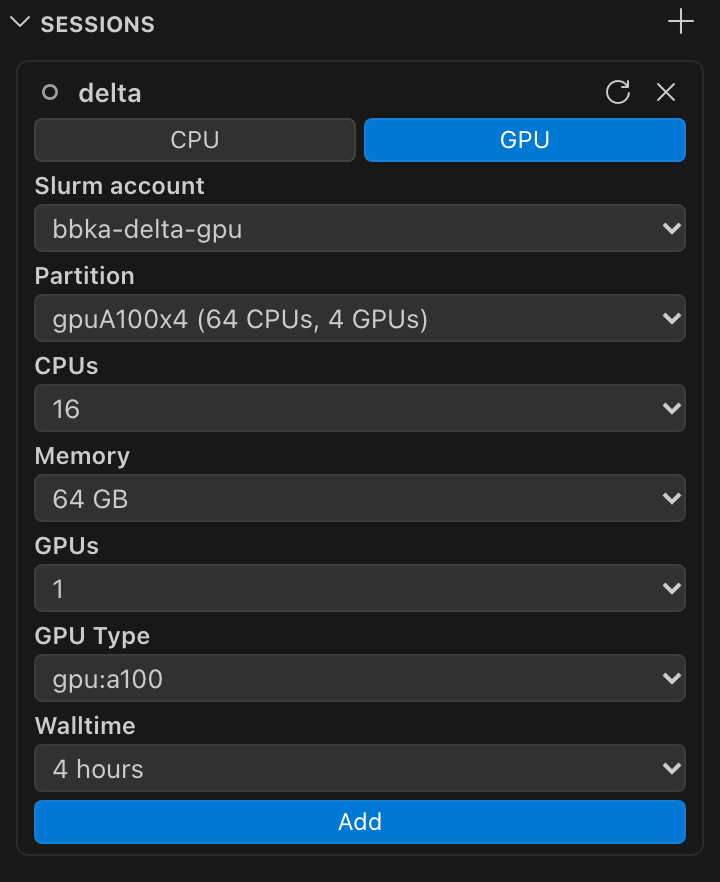
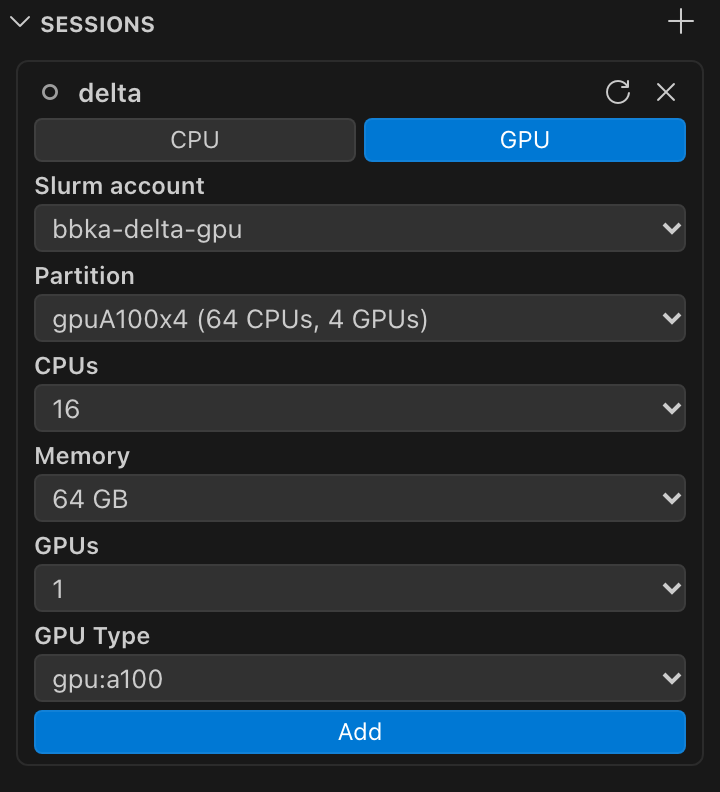
Ask for the walltime on Start

diff --git a/src/sessionProvider.ts b/src/sessionProvider.ts
@@ -27,6 +27,7 @@ export class SessionProvider extends WebviewProvider<SessionsMessage> implements
     private preparing = false; // one prepare at a time, so one draft follows another
     private readonly shared: vscode.Disposable[] = [];
     private readonly opening = new Map<string, ReturnType<typeof setTimeout>>(); // each open's own fallback timer
+    private readonly starting = new Set<string>();
     private readonly monitor: SessionMonitor;
     private readonly slurm: SlurmBackend;
     private readonly ec2: Ec2Backend;
@@ -95,7 +96,11 @@ export class SessionProvider extends WebviewProvider<SessionsMessage> implements
         dismissAlert: this.dismiss(() => { this.alert = null; }),
         addSession: m => this.createSession(m),
         refreshSlurmDiscovery: ({ alias }) => this.fetchSlurmDiscovery(alias, true),
-        prepareLaunchSession: ({ sessionId }) => void this.prepareLaunchSession(sessionId),
+        prepareLaunchSession: ({ sessionId }) => {
+            this.starting.add(sessionId);
+            void this.pushState();
+            void this.prepareLaunchSession(sessionId).finally(() => { this.starting.delete(sessionId); void this.pushState(); });
+        },
         launchSession: () => this.launchDraft(),
         stopSessionExecution: ({ sessionId }) => void this.stopSessionExecution(sessionId),
         stopRemoteSession: () => void vscode.commands.executeCommand('csbridge.stopRemoteSession'), // posted only by a remote window's card
@@ -212,7 +217,7 @@ export class SessionProvider extends WebviewProvider<SessionsMessage> implements
                     .map((s) => {
                         const live = windowState(s);
                         if (live.windowAlive) { clearTimeout(this.opening.get(s.id)); this.opening.delete(s.id); }
-                        return { ...s, status: statusOf(s), ...live, opening: this.opening.has(s.id), samples: readRecentSamples(s.id) };
+                        return { ...s, status: statusOf(s), ...live, opening: this.opening.has(s.id), starting: this.starting.has(s.id), samples: readRecentSamples(s.id) };
                     })
                     .sort((a, b) => b.id.localeCompare(a.id)), // newest first
                 draftAlias: this.draftAlias,
@@ -320,7 +325,8 @@ export class SessionProvider extends WebviewProvider<SessionsMessage> implements
 
     private async prepareLaunchSession(sessionId: string) {
         const session = this.requireSession(sessionId, 'prepare launch');
-        if (!session || this.preparing || live.busy.has(session.id) || live.connecting.has(session.id)) { return; } // one prepare at a time; a Start during a connect is a no-op
+        const wallMinutes = session && !isEc2(session) ? await pickWalltime(session.resources.wallMinutes) : 0;
+        if (!session || wallMinutes === undefined || this.preparing || live.busy.has(session.id) || live.connecting.has(session.id)) { return; } // one prepare at a time; a Start during a connect is a no-op
         this.preparing = true;
         live.busy.add(session.id);
         try {
@@ -335,7 +341,7 @@ export class SessionProvider extends WebviewProvider<SessionsMessage> implements
         live.busy.add(session.id);
         try {
             if (session.connectionInfo) { await this.monitor.endSession(session); } // the previous run's teardown, before a transport switch hides it
-            patch(session, { transport: configuredTransport() });
+            patch(session, { transport: configuredTransport(), resources: { ...session.resources, wallMinutes } });
             const draft = await prepareLaunch(session, this.transports.transportFor(session));
             this.draft = { sessionId, ...draft };
         }
@@ -354,4 +360,16 @@ export class SessionProvider extends WebviewProvider<SessionsMessage> implements
         const session = draft && getSession(draft.sessionId);
         return draft && session ? { sessionId: session.id, alias: session.alias, script: draft.script } : null;
     }
+}
+
+function pickWalltime(previous: number): Promise<number | undefined> {
+    const pick = vscode.window.createQuickPick<vscode.QuickPickItem & { minutes: number }>();
+    pick.title = 'Walltime';
+    pick.items = [30, 60, 120, 240, 480, 720, 1440].map(m => ({ label: m < 60 ? `${m} min` : `${m / 60} h`, minutes: m }));
+    pick.activeItems = pick.items.filter(i => i.minutes === previous);
+    return new Promise((resolve) => {
+        pick.onDidAccept(() => { resolve(pick.selectedItems[0]?.minutes); pick.dispose(); });
+        pick.onDidHide(() => { resolve(undefined); pick.dispose(); });
+        pick.show();
+    });
 }

diff --git a/src/ui/logic/session.test.ts b/src/ui/logic/session.test.ts
@@ -70,15 +70,17 @@ test('connected session: Current when this window, else Switch/Connect by window
     assert.deepEqual([connectingBtn?.kind, connectingBtn?.label], ['opening', 'Connecting…']);
 });
 
-test('cardModel: an HPC job and an EC2 instance differ only in chips, details, walltime and the running text', () => {
+test('cardModel: an HPC job and an EC2 instance differ only in chips, details and the running text', () => {
     const base = { alias: 'h', account: 'acct', partition: 'gpu', jobId: '42', errorMessage: '', submittedAt: 1_000, startedAt: 1_000, resources: { cores: 2, memoryMb: 4096, wallMinutes: 60 } };
     const hpc = cardModel(sess('connected', base), 601_000);
-    assert.deepEqual([hpc.kind, hpc.theme, hpc.chips, hpc.walltime, hpc.details, hpc.status.text], ['HPC', 'info', ['acct', 'gpu'], '1h 0m', undefined, '50m 0s left']);
+    assert.deepEqual([hpc.kind, hpc.theme, hpc.chips, hpc.details, hpc.status.text], ['HPC', 'info', ['acct', 'gpu'], undefined, '50m 0s left']);
     const ec2 = { region: 'us-east-1', type: 't3.micro', image: '', user: 'ubuntu', ip: '1.2.3.4' };
     const aws = cardModel(sess('connected', { ...base, ec2 }), 601_000);
-    assert.deepEqual([aws.kind, aws.theme, aws.chips, aws.walltime, aws.details, aws.status.text], ['AWS', 'warning', ['t3.micro', 'Ubuntu 24.04 LTS'], undefined, ['us-east-1', '42', '1.2.3.4'], 'Running']);
+    assert.deepEqual([aws.kind, aws.theme, aws.chips, aws.details, aws.status.text], ['AWS', 'warning', ['t3.micro', 'Ubuntu 24.04 LTS'], ['us-east-1', '42', '1.2.3.4'], 'Running']);
     assert.equal(cardModel(sess('preparing', base), 0).status.text, 'Starting Linkspan…');
     assert.equal(cardModel(sess('preparing', { ...base, ec2 }), 0).status.text, 'Booting…');
+    const starting = cardModel(sess('stopped', { ...base, starting: true }), 0);
+    assert.deepEqual([starting.actions[0]?.label, starting.canDelete], ['Starting…', false]);
 });
 
 test('cardModel: status text carries the error where there is one, with a hover title', () => {

diff --git a/src/ui/components/HostForm.tsx b/src/ui/components/HostForm.tsx
@@ -11,8 +11,6 @@ interface Props {
     validating: boolean;
 }
 
-const WALL_MINUTES: NonEmpty<number> = [30, 60, 120, 240, 480, 720, 1440];
-const wallLabel = (m: number) => (m < 60 ? `${m} min` : m === 60 ? '1 hour' : `${m / 60} hours`);
 const partitionLabel = (p: SlurmPartitionInfo) => `${p.name} (${p.cpuCount} CPUs${p.gres[0] ? `, ${p.gres[0].count} GPUs` : ''})`;
 
 // Options are keyed by `id` because the state the form derives from is re-sent on every render.
@@ -36,7 +34,6 @@ function HostFormFields({ alias, info, validating }: { alias: string; info: Slur
     const [memPick, setMem] = useState<number>();
     const [gpuCountPick, setGpuCount] = useState<number>();
     const [gpuTypePick, setGpuType] = useState<string>();
-    const [wall, setWall] = useState(WALL_MINUTES[0]);
 
     const partition = resolvePick(partName, info.partitions, p => p.name);
     const tab = tabOf(partition);
@@ -47,7 +44,7 @@ function HostFormFields({ alias, info, validating }: { alias: string; info: Slur
 
     const submit = () => post({
         command: 'addSession', alias, partition: partition.name, account, rootFolder: info.homeDir,
-        resources: { cores: cpu, memoryMb: memGb * 1024, wallMinutes: wall, ...gpu && { gpuType: gpuTypeOf(gpu.type), gpuCount } },
+        resources: { cores: cpu, memoryMb: memGb * 1024, wallMinutes: 0, ...gpu && { gpuType: gpuTypeOf(gpu.type), gpuCount } },
     });
 
     return (
@@ -69,7 +66,6 @@ function HostFormFields({ alias, info, validating }: { alias: string; info: Slur
                     <Choice label="GPU Type" value={gpu.type} options={gpu.types} onChange={setGpuType} />
                 </>
             )}
-            <Choice label="Walltime" value={wall} options={WALL_MINUTES} onChange={setWall} show={wallLabel} />
             <Button onClick={submit} disabled={validating}>
                 {validating ? <Row gap={4}><Spinner size={12} /> Validating…</Row> : 'Add'}
             </Button>

diff --git a/src/ui/logic/session.ts b/src/ui/logic/session.ts
@@ -54,7 +54,7 @@ export function dotColor(status: ViewSession['status']): string {
 
 export function sessionActions(session: ViewSession): SessionAction[] {
     const s = session.status;
-    if (isDeletable(s)) { return [{ kind: 'start', label: 'Start', icon: 'play' }]; }
+    if (isDeletable(s)) { return [session.starting ? { kind: 'opening', label: 'Starting…', icon: 'loading' } : { kind: 'start', label: 'Start', icon: 'play' }]; }
 
     const actions: SessionAction[] = [];
     if (isStoppable(s)) { actions.push(STOP); }
@@ -120,7 +120,6 @@ interface CardModel {
     icon: { name: string; spin?: boolean };
     color: string;
     chips: string[];
-    walltime?: string;
     details?: string[];
     status: { text: string; title?: string };
     actions: SessionAction[];
@@ -150,7 +149,7 @@ function card<S extends ViewSession>(s: S, provider: Provider<S>, now: number, r
     const actions = sessionActions(s);
     return {
         kind: provider.kind, theme: provider.theme, icon: STATUS_ICON[s.status], color: dotColor(s.status), chips: provider.chips(s),
-        ...provider.kind === 'HPC' && { walltime: fmtTime(wallMs(s)) }, details: provider.details?.(s), status: statusText(s, now, provider),
-        actions: remote ? actions.filter(a => a.kind === 'stop') : actions, canDelete: !remote && isDeletable(s.status),
+        details: provider.details?.(s), status: statusText(s, now, provider),
+        actions: remote ? actions.filter(a => a.kind === 'stop') : actions, canDelete: !remote && !s.starting && isDeletable(s.status),
     };
 }

diff --git a/scripts/vscodeMock.js b/scripts/vscodeMock.js
@@ -26,6 +26,7 @@ mock.module('vscode', () => ({
     window: {
         createOutputChannel: () => ({ info: noop, warn: noop, error: noop, trace: noop, dispose: noop }),
         showErrorMessage: async () => undefined, showWarningMessage: async () => undefined, showInformationMessage: async () => undefined,
+        createQuickPick: () => { const pick = { activeItems: [], onDidHide: noop, dispose: noop, onDidAccept: f => { pick.show = () => { pick.selectedItems = pick.activeItems; f(); }; } }; return pick; },
         createWebviewPanel: () => {
             const received = new EventEmitter(), disposed = new EventEmitter();
             const panel = { webview: { html: '', cspSource: 'vscode-webview:', asWebviewUri: u => u, posted: [], postMessage: async m => { panel.webview.posted.push(m); return true; }, onDidReceiveMessage: received.event }, onDidDispose: disposed.event, dispose: () => disposed.fire(), receive: m => received.fire(m) };

diff --git a/src/ui/components/SessionCard.tsx b/src/ui/components/SessionCard.tsx
@@ -91,8 +91,7 @@ export function SessionCard({ session, remote }: Props) {
                 {m.details ? <Divided items={m.details.map(t => <Text key={t} size={11}>{t}</Text>)} /> : <ResourceStats session={session} />}
                 <Row gap={6}>
                     <Chip label={m.kind} background={tint} />
-                    {m.walltime ? <Chip label={m.walltime} /> : null}
-                    <Row style={statusStyle}><Text title={m.status.title}>{m.status.text}</Text></Row>
+                    <Row style={statusStyle}><Text ellipsis title={m.status.title ?? m.status.text}>{m.status.text}</Text></Row>
                     {m.actions.length ? (
                         <Row gap={6} style={{ marginLeft: 'auto', flexShrink: 0, zoom: 0.85 }}>
                             {m.actions.map(a => a.kind === 'opening'

diff --git a/src/modules/slurmParse.test.ts b/src/modules/slurmParse.test.ts
@@ -68,6 +68,7 @@ test('buildSlurmScript emits the resource #SBATCH directives and the Linkspan in
     assert.match(script, /^#SBATCH --cpus-per-task=4$/m);
     assert.match(script, /^#SBATCH --mem=8192M$/m);
     assert.match(script, /^#SBATCH --time=1-01:00:00$/m);
+    assert.doesNotMatch(buildSlurmScript({ ...session, resources: { ...session.resources, wallMinutes: 0 } }, devTunnelLaunch({ id: 'tid', cluster: 'use' }, 'tok'), 25000), /--time/, 'no walltime, no --time');
     assert.match(script, /^#SBATCH --partition=gpu$/m);
     assert.match(script, /^#SBATCH --account=acct1$/m);
     assert.match(script, /^#SBATCH --gres=gpu:a100:2$/m);

diff --git a/src/modules/slurmParse.ts b/src/modules/slurmParse.ts
@@ -50,7 +50,7 @@ export function buildSlurmScript(session: SlurmSession, launch: LinkspanLaunch, 
         `#SBATCH --ntasks=1`,
         `#SBATCH --cpus-per-task=${cores}`,
         `#SBATCH --mem=${memoryMb}M`,
-        `#SBATCH --time=${minutesToWalltime(wallMinutes)}`,
+        ...(wallMinutes ? [`#SBATCH --time=${minutesToWalltime(wallMinutes)}`] : []),
         `#SBATCH --partition=${session.partition}`,
         ...(session.account ? [`#SBATCH --account=${session.account}`] : []),
         ...(gpuCount ? [`#SBATCH --gres=gpu:${gpuType && gpuType !== 'gpu' ? `${gpuType}:` : ''}${gpuCount}`] : []),

diff --git a/src/lifecycle.test.ts b/src/lifecycle.test.ts
@@ -194,6 +194,7 @@ test('a relaunch preview outlives a heartbeat, and dropping it releases the atta
     assert.deepEqual(released, [s.id], 'the old run is torn down before the next is prepared');
     assert.equal(s.connectionInfo, undefined);
     assert.equal(state()?.preview?.sessionId, s.id, 'the preview is up');
+    assert.match(must(state()?.preview).script, /^#SBATCH --time=00:30:00$/m, 'the last walltime is preselected');
     assert.equal(owns(s), true, 'the preview holds the claim');
 
     await files.write('windows/other.json', JSON.stringify({ at: Date.now() }));

diff --git a/src/models.ts b/src/models.ts
@@ -108,7 +108,7 @@ export enum SlurmJobStatus {
     UNKNOWN = 'unknown',
 }
 
-export type ViewSession = SlurmSession & { status: SessionStatus; samples: UsageSample[]; isCurrent?: boolean; windowAlive?: boolean; opening?: boolean };
+export type ViewSession = SlurmSession & { status: SessionStatus; samples: UsageSample[]; isCurrent?: boolean; windowAlive?: boolean; opening?: boolean; starting?: boolean };
 
 export const SAMPLE_HISTORY_LEN = 20; // rolling live-sample window, also the sparkline slot count
 export const POLLING_INTERVAL_MS = 5000;

diff --git a/docs/01-session-lifecycle.md b/docs/01-session-lifecycle.md
@@ -52,17 +52,21 @@ offers:
 | CPUs | 2 up to the partition's count |
 | Memory | 4, 8, 16, … 1024 GB, up to the partition's. The range is 4 to 128 GB when the partition reports none. 2 GB is excluded. It OOM-kills the VS Code server. |
 | GPU type and count | from the partition's GRES |
-| Walltime | 30 min, 1, 2, 4, 8, 12 or 24 h |
+
+The form has no walltime, so validation sends no `--time`.
 
 ## Start
+
+For a Slurm session, **Start** first asks for a walltime, from 30 min to 24 h. The last one is preselected. Escape
+cancels. The card shows busy until the preview opens.
 
 1. **Claim and clean up.** **Start** (`sessionProvider.ts`):
    - ends any monitoring loop with its teardown, or waits for a teardown already in flight;
    - drops an unsubmitted preview;
    - claims the session. It stops if another window owns it.
 
-   If the previous run left connection info, that run's teardown runs now. The configured transport is then written
-   to the record. This way a run keeps the transport it started with.
+   If the previous run left connection info, that run's teardown runs now. The configured transport and the walltime
+   are then written to the record. This way a run keeps the transport it started with.
 
    Start does nothing while:
    - another Start in this window is preparing;
@@ -131,7 +135,7 @@ offers:
 
 `buildSlurmScript` writes:
 
-- `#SBATCH` lines for job name, nodes, tasks, CPUs, memory, time and partition, plus account and `--gres` when set;
+- `#SBATCH` lines for job name, nodes, tasks, CPUs, memory and partition, plus time, account and `--gres` when set;
 - output and error logs at `~/.cybershuttle/logs/linkspan-session-$SLURM_JOB_ID.{out,err}`;
 - `unset XDG_RUNTIME_DIR TMPDIR`. Compute nodes have no logind. Without it, the inherited `/run/user/$UID` does not
   exist there. Unsetting both makes the VS Code server use node-local `/tmp`;

diff --git a/README.md b/README.md
@@ -50,8 +50,8 @@ alias. Stop a session's job before you rename or remove its host.
 
 ### Request a compute node from a form
 
-Choose the partition, Slurm account, CPUs, memory and GPUs the cluster offers. Choose a walltime of up to 24 hours.
-**Add** checks the request with Slurm before saving it. **Start** shows the job script CS Bridge wrote. **Submit Job**
+Choose the partition, Slurm account, CPUs, memory and GPUs the cluster offers. **Add** checks the request with Slurm
+before saving it. **Start** asks for a walltime of up to 24 h, then shows the job script CS Bridge wrote. **Submit Job**
 submits it. There is no batch script to maintain.
 
 <img src="https://raw.githubusercontent.com/cyber-shuttle/CS-Bridge/HEAD/docs/media/02-new-session.png" alt="New session form" width="360">
@@ -203,7 +203,7 @@ CS Bridge currently fails to activate when `~/.ssh` does not exist. Create it fi
 3. From the **+** menu, choose **Create New SSH Session** and pick an SSH host. To add a host first, choose **Add SSH
    Host** and paste its `ssh` command.
 4. Fill in the resource form and click **Add**.
-5. On the new session, click **Start**, review the job script, and click **Submit Job**.
+5. On the new session, click **Start**, choose a walltime, review the job script, and click **Submit Job**.
 6. Once the job runs, click **Connect**. A new VS Code window opens on the compute node.
 
 ## FAQ
